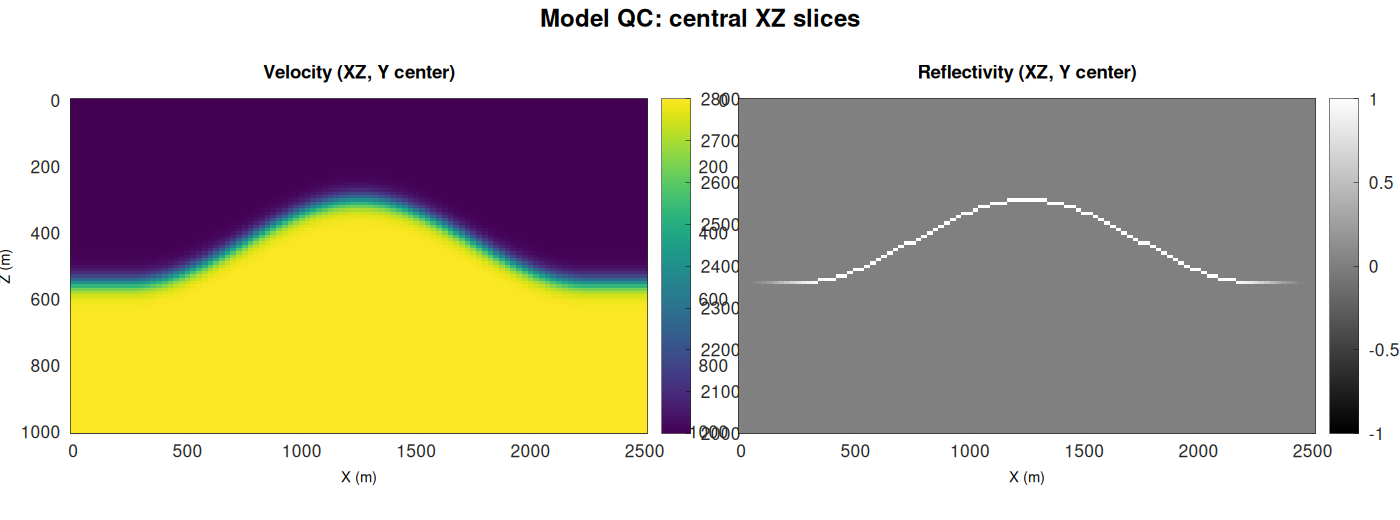
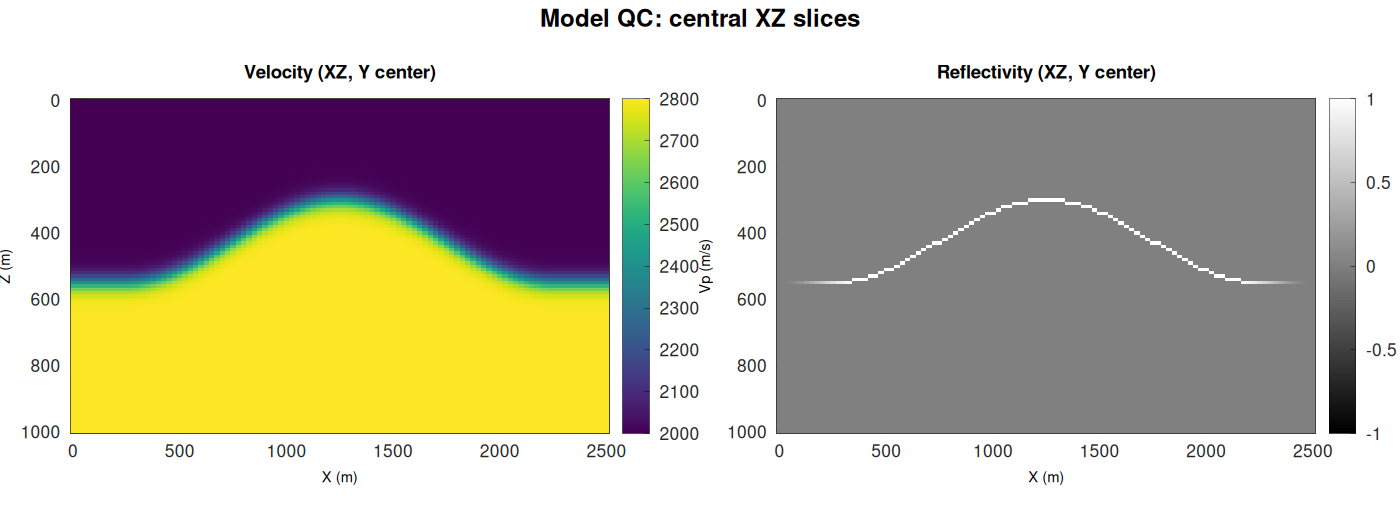
fixed png

diff --git a/src/main.cpp b/src/main.cpp
@@ -42,12 +42,11 @@ void apply_qc_axis_style(matplot::axes_handle ax, bool equal_aspect = false) {
 }
 
 // Ручная раскладка панелей: без больших полей matplot subplot по умолчанию.
-std::array<float, 4> qc_panel_position(size_t col, size_t ncols) {
+std::array<float, 4> qc_panel_position(size_t col, size_t ncols, float gap = 0.025f) {
     const float left = 0.05f;
     const float bottom = 0.14f;
     const float top = 0.90f;
     const float right = 0.98f;
-    const float gap = 0.025f;
     const float w = (right - left - gap * static_cast<float>(ncols - 1)) / static_cast<float>(ncols);
     const float x = left + static_cast<float>(col) * (w + gap);
     return {x, bottom, w, top - bottom};
@@ -284,7 +283,9 @@ void plot_model_qc(
     f->size(1400, 520);
     f->font_size(kQcFontSize);
 
-    auto ax0 = subplot(f, qc_panel_position(0, 2));
+    constexpr float kModelPanelGap = 0.08f;
+
+    auto ax0 = subplot(f, qc_panel_position(0, 2, kModelPanelGap));
     apply_qc_axis_style(ax0);
     imagesc(ax0, 0, x_max, 0, z_max, v_slice);
     ax0->colormap(palette::viridis());
@@ -295,7 +296,7 @@ void plot_model_qc(
     ax0->cblabel("Vp (m/s)");
     colorbar(ax0);
 
-    auto ax1 = subplot(f, qc_panel_position(1, 2));
+    auto ax1 = subplot(f, qc_panel_position(1, 2, kModelPanelGap));
     apply_qc_axis_style(ax1);
     imagesc(ax1, 0, x_max, 0, z_max, r_slice);
     ax1->colormap(palette::gray());
